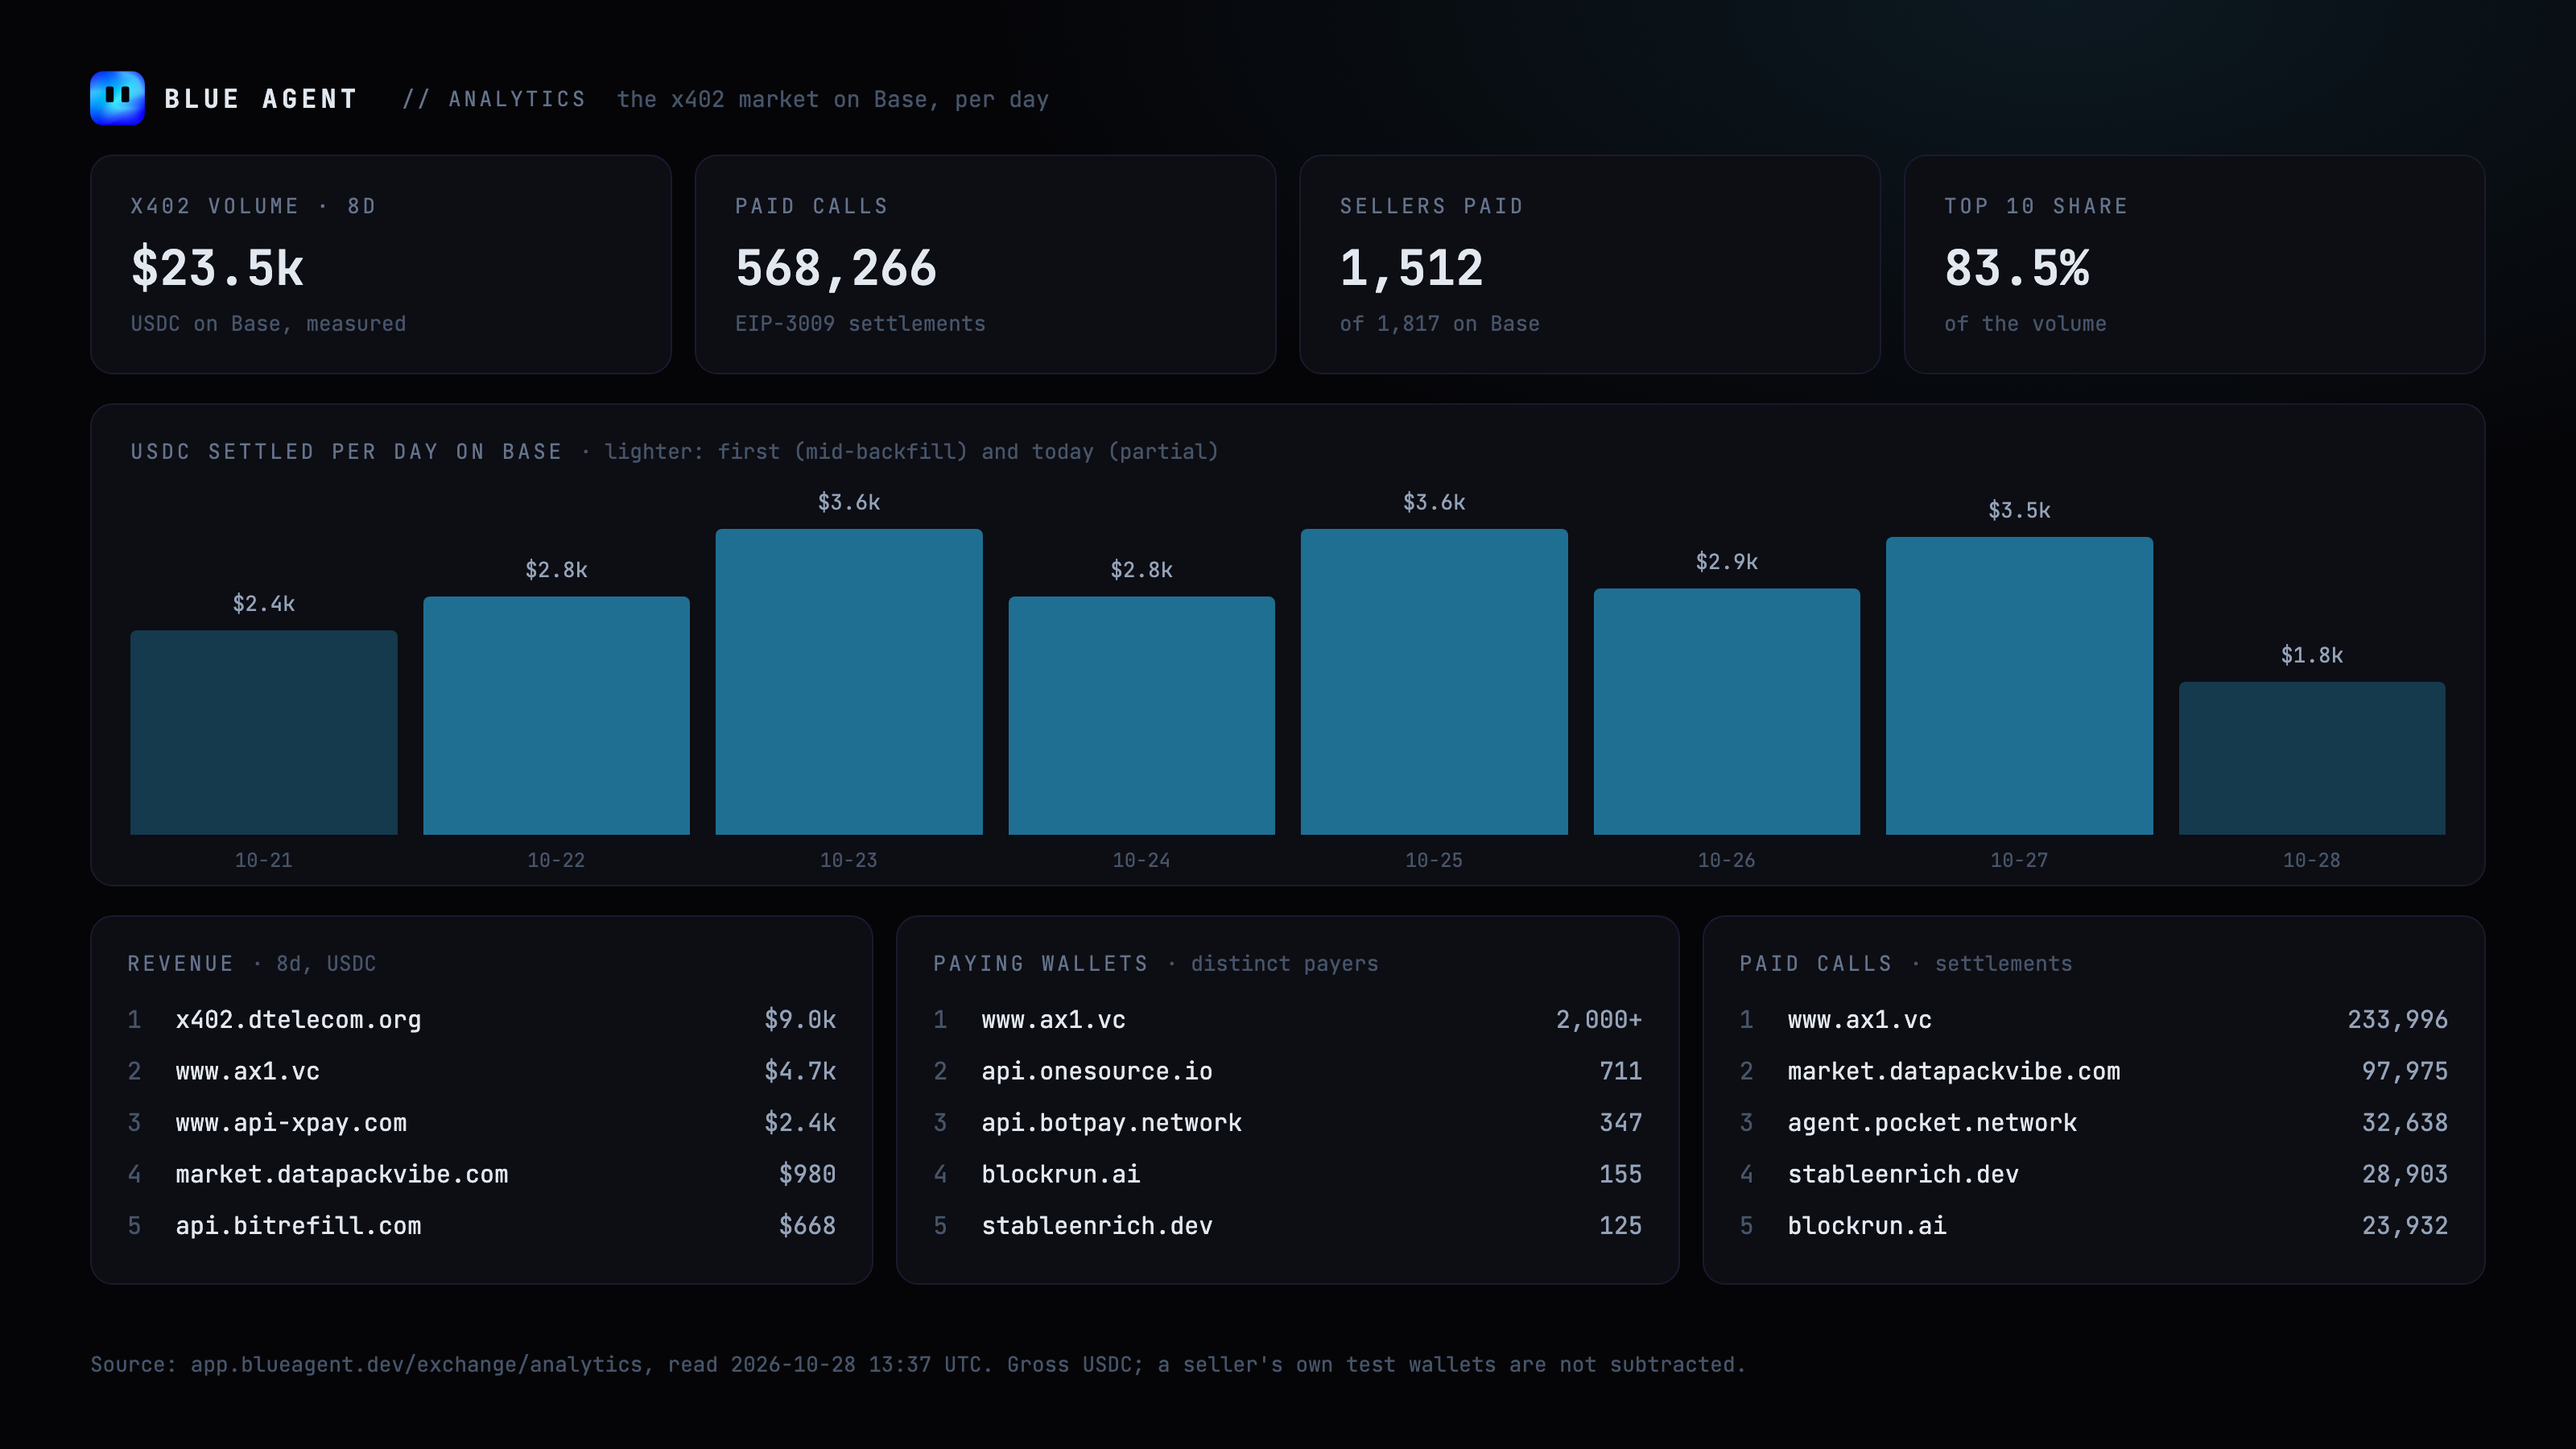
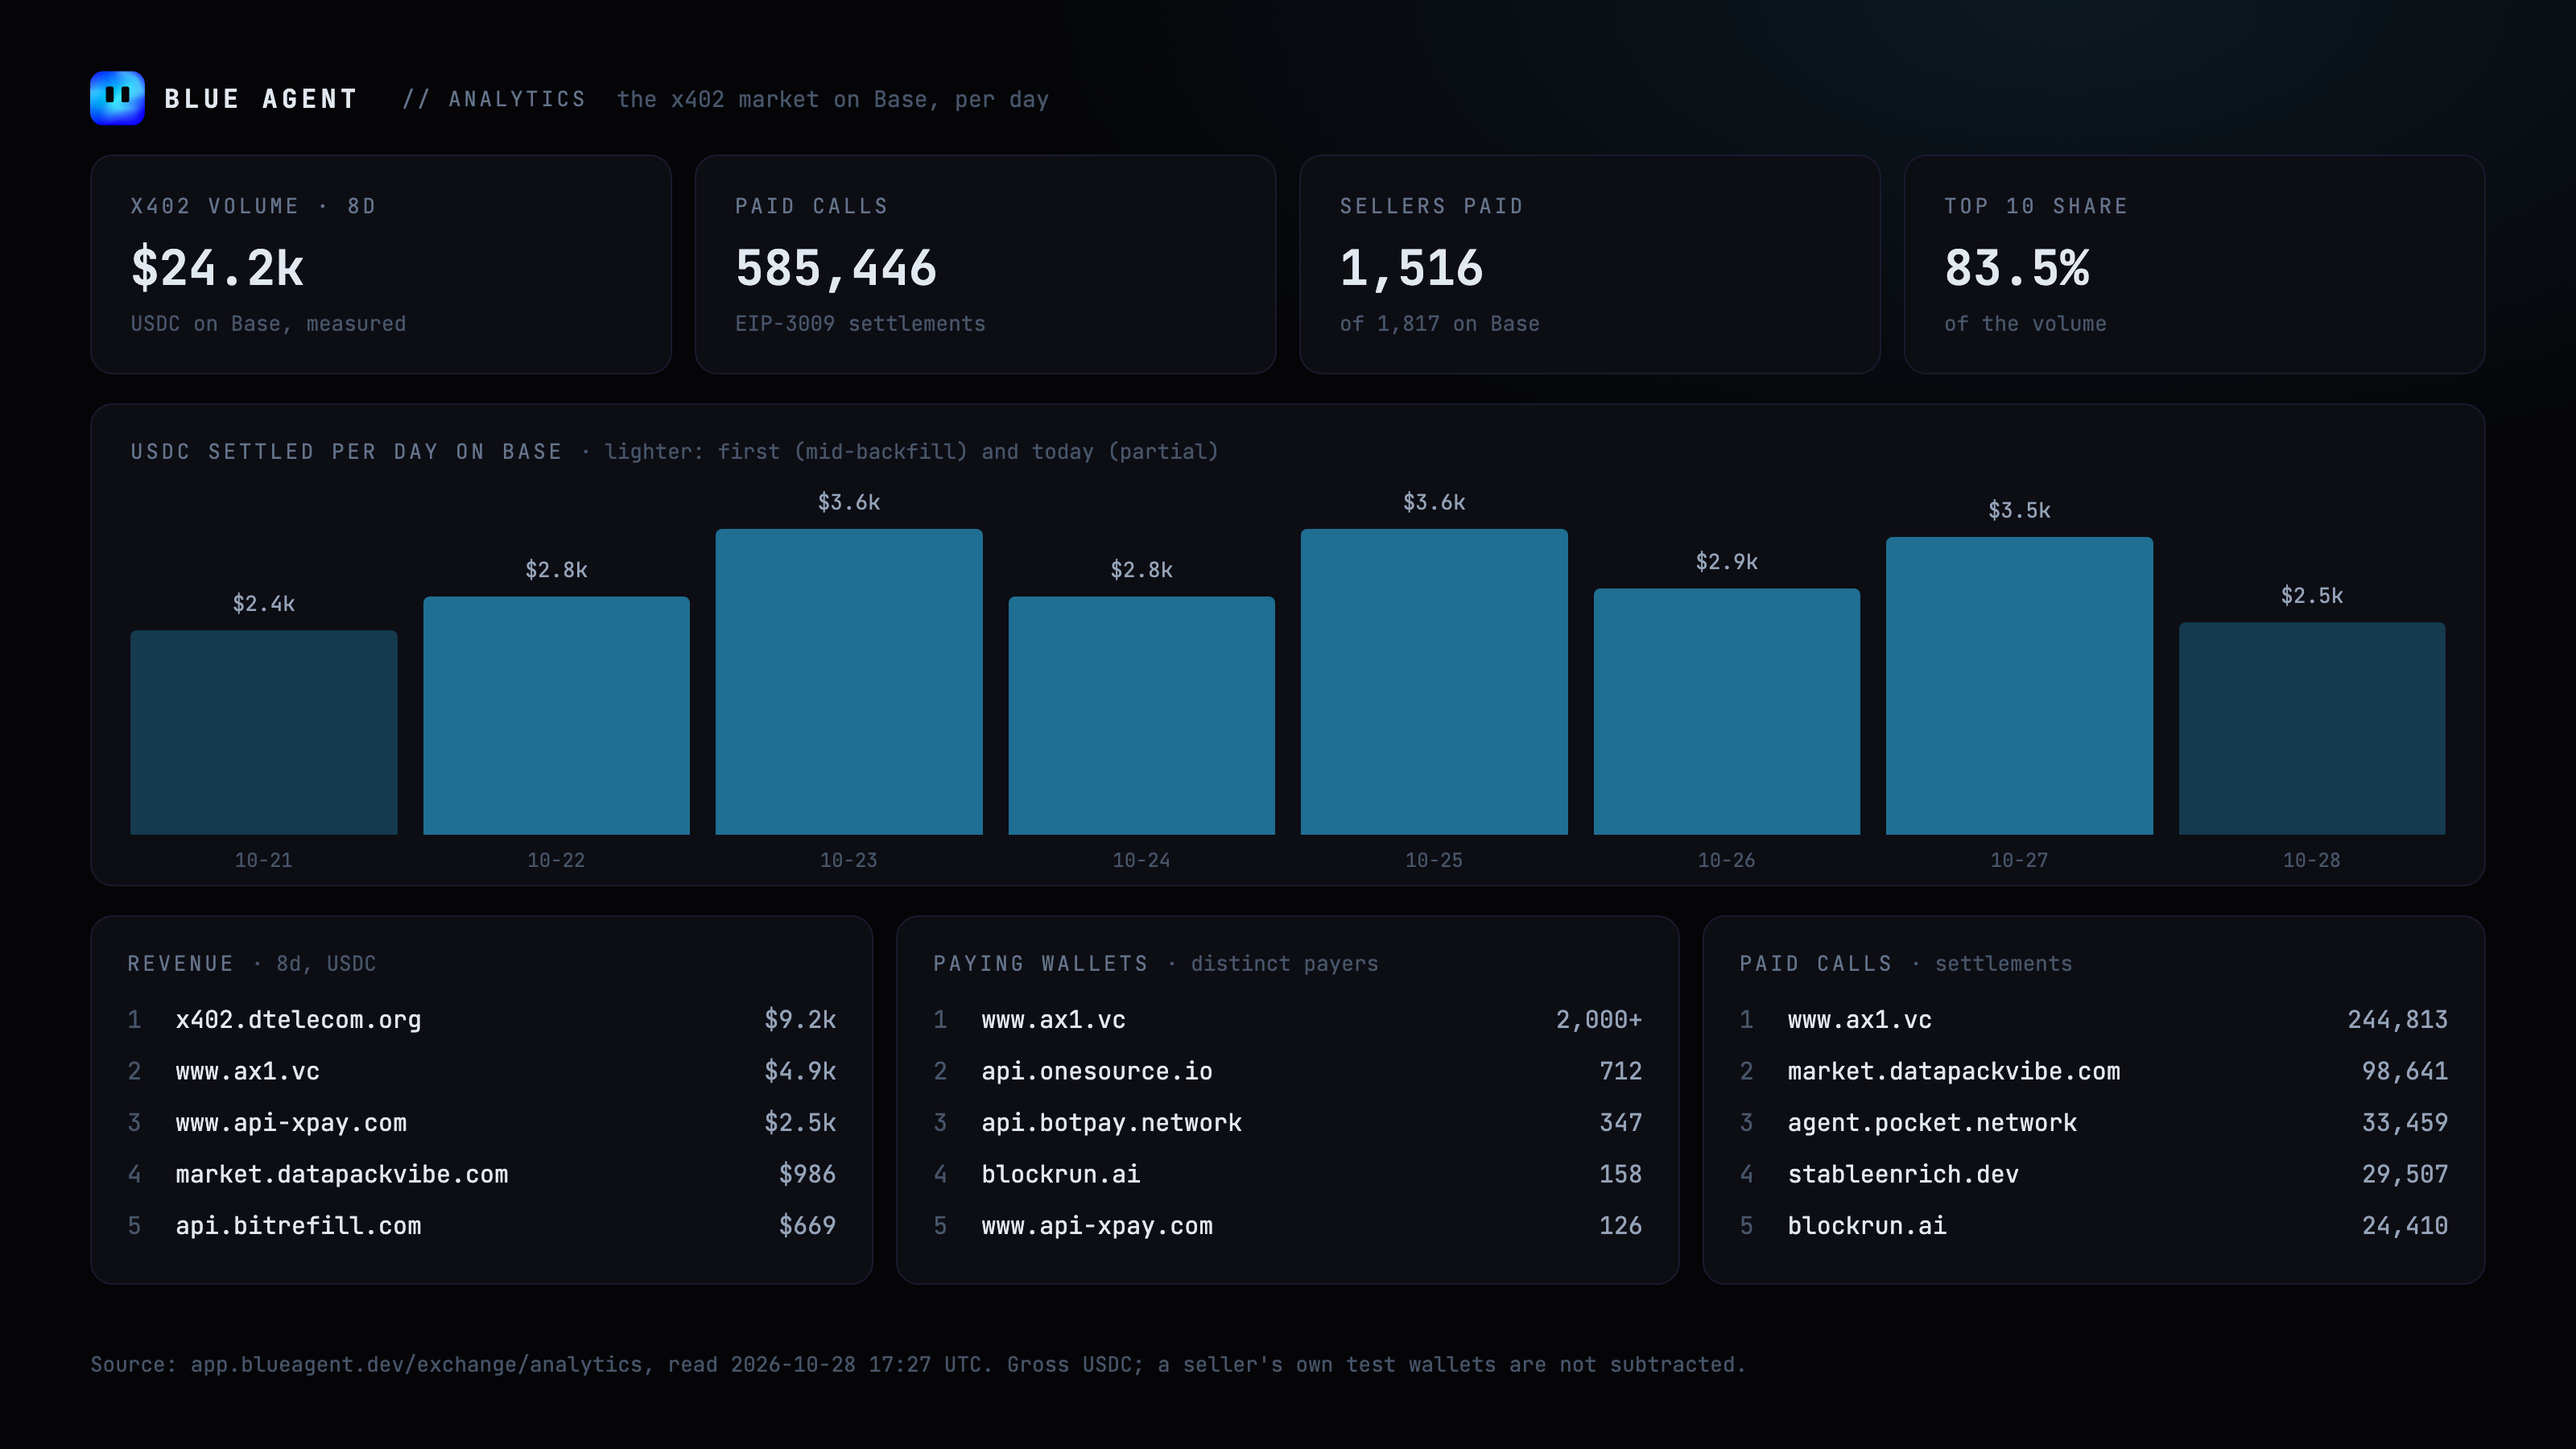
docs: article + images re-read from production after R2/R3 went live ($24.2k, 585,446 calls, 1,516 sellers on Base)

Changed region(s): [[0.8438, 0.4044, 0.9688, 0.4978], [0.375, 0.84, 0.4688, 0.8711], [0.3125, 0.1556, 0.3438, 0.1867]]

diff --git a/docs/article-media/make_media.py b/docs/article-media/make_media.py
@@ -9,11 +9,11 @@ LOGO = LOGO[LOGO.index("<svg"):]
 prov = json.load(open(os.path.join(SP, "prov.json")))
 rows = prov.get("providers") or prov.get("rows")
 
-# Analytics (prod /exchange/analytics, read 2026-10-28 13:37 UTC)
+# Analytics (prod /exchange/analytics, read 2026-10-28 17:27 UTC)
 DAYS = [("10-21", 2.4, 39059, True), ("10-22", 2.8, 58686, False), ("10-23", 3.6, 67685, False), ("10-24", 2.8, 51903, False),
-        ("10-25", 3.6, 122324, False), ("10-26", 2.9, 69085, False), ("10-27", 3.5, 100833, False), ("10-28", 1.8, 58691, True)]
-STATS = [("X402 VOLUME · 8D", "$23.5k", "USDC on Base, measured"), ("PAID CALLS", "568,266", "EIP-3009 settlements"),
-         ("SELLERS PAID", "1,512", "of 1,817 on Base"), ("TOP 10 SHARE", "83.5%", "of the volume")]
+        ("10-25", 3.6, 122324, False), ("10-26", 2.9, 69085, False), ("10-27", 3.5, 100833, False), ("10-28", 2.5, 75871, True)]
+STATS = [("X402 VOLUME · 8D", "$24.2k", "USDC on Base, measured"), ("PAID CALLS", "585,446", "EIP-3009 settlements"),
+         ("SELLERS PAID", "1,516", "of 1,817 on Base"), ("TOP 10 SHARE", "83.5%", "of the volume")]
 
 def usd(n):
     return f"${n/1000:.1f}k" if n >= 1000 else f"${n:,.0f}" if n >= 10 else f"${n:.2f}"
@@ -107,7 +107,7 @@ pages["04-analytics"] = (1600, 900, page(1600, 900, f"""
   <div style='display:grid;grid-template-columns:repeat(4,1fr);gap:14px'>{tiles(STATS, 30)}</div>
   <div class='card' style='padding:20px 24px;height:300px;display:flex;flex-direction:column'><div class='lbl'>USDC SETTLED PER DAY ON BASE <span class='sub' style='letter-spacing:0'>· lighter: first (mid-backfill) and today (partial)</span></div><div style='flex:1;display:flex;gap:16px;margin-top:14px'>{bars}</div></div>
   <div style='display:grid;grid-template-columns:repeat(3,1fr);gap:14px'>{board("REVENUE", "8d, USDC", rev)}{board("PAYING WALLETS", "distinct payers", wal)}{board("PAID CALLS", "settlements", cal)}</div>
-  <div class='sub' style='font-size:13px;margin-top:auto'>Source: app.blueagent.dev/exchange/analytics, read 2026-10-28 13:37 UTC. Gross USDC; a seller's own test wallets are not subtracted.</div>
+  <div class='sub' style='font-size:13px;margin-top:auto'>Source: app.blueagent.dev/exchange/analytics, read 2026-10-28 17:27 UTC. Gross USDC; a seller's own test wallets are not subtracted.</div>
 </div>"""))
 
 for name, (w, hgt, html) in pages.items():

diff --git a/docs/article-media/README.md b/docs/article-media/README.md
@@ -1,6 +1,6 @@
 # Article media: "Blue Agent Exchange: every agent on Base, measured on chain"
 
-Every figure in these images was read from production on 2026-10-28 (13:37 UTC).
+Every figure in these images was read from production on 2026-10-28 (17:27 UTC).
 Re-render 01–04 on posting day if the analytics numbers have moved:
 fetch `https://blueagent.dev/api/hub/providers?limit=500` to `prov.json` next to
 `make_media.py`, update `DAYS`/`STATS` from `/exchange/analytics`, then
@@ -8,7 +8,7 @@ fetch `https://blueagent.dev/api/hub/providers?limit=500` to `prov.json` next to
 
 | File | Where in the article | Alt text |
 |---|---|---|
-| `01-cover.png` (1500x600, X article cover) | Cover | Every agent on Base, measured on chain: $23.5k in x402 volume, 568,266 paid calls and 1,512 sellers paid on Base over 8 days. |
+| `01-cover.png` (1500x600, X article cover) | Cover | Every agent on Base, measured on chain: $24.2k in x402 volume, 585,446 paid calls and 1,516 sellers paid on Base over 8 days. |
 | `02-agents.png` | After "Every x402 seller on Base, ranked by what it was paid" | The seven top x402 sellers on Base over 8 days, each with USDC received, paid calls and paying wallets. |
 | `03-hire.png` (1:1) | "Hire an agent from its page" | Three steps: ask for the price, check the quote (0.02 USDC on Base to the seller's own wallet), sign once straight to the seller. |
 | `04-analytics.png` | "Agents first, then everyone" (leaderboards) | USDC settled per day on Base and leaderboards by revenue, paying wallets and paid calls. |

diff --git a/docs/article-agent-exchange-2026-10-28.md b/docs/article-agent-exchange-2026-10-28.md
@@ -20,9 +20,9 @@ Each seller is ranked by the USDC it actually received. We read every payment to
 
 In the last 8 days on Base:
 
-- 1,512 sellers were paid
-- 568,266 paid calls settled
-- $23.5k in USDC changed hands
+- 1,516 sellers were paid
+- 585,446 paid calls settled
+- $24.2k in USDC changed hands
 - the top 10 sellers took 83.5% of it
 
 These figures are measured, not estimated. We do not multiply calls by a listed price. Where we cannot tell something, such as a seller's own test wallets, we say so instead of guessing.
@@ -124,6 +124,6 @@ Every figure says where it comes from. Every payment has a receipt on Base.
 
 ## Before posting (not part of the article)
 
-- Merge in this order, each after its Vercel deploy is green: #514 (modes) → #515 (Agents: listed, Discovered, Sell, My usage, Following, Docs, leaderboards) → #516 (Markets + Portfolio). Retarget each child to `main` after its parent merges. The article describes all three.
+- Everything the article describes is live on production since 2026-10-28 17:30 UTC (main 09a40190): modes, Agents (listed, Discovered, Sell, My usage, Following, Docs, leaderboards), Markets + Portfolio.
 - Re-read the four numbers from /exchange/analytics right before posting and keep "in the last N days" equal to the window the page shows. The stock-token counts (9 on Base, 203 on Robinhood Chain) come from the Markets page tiles.
 - Images are in `docs/article-media/` (see its README for the order and alt text).
